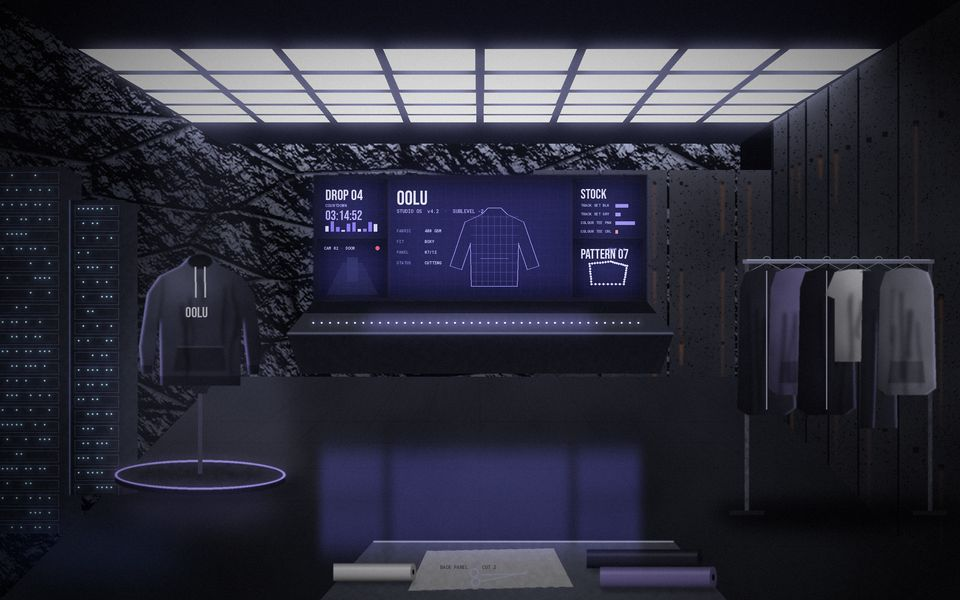
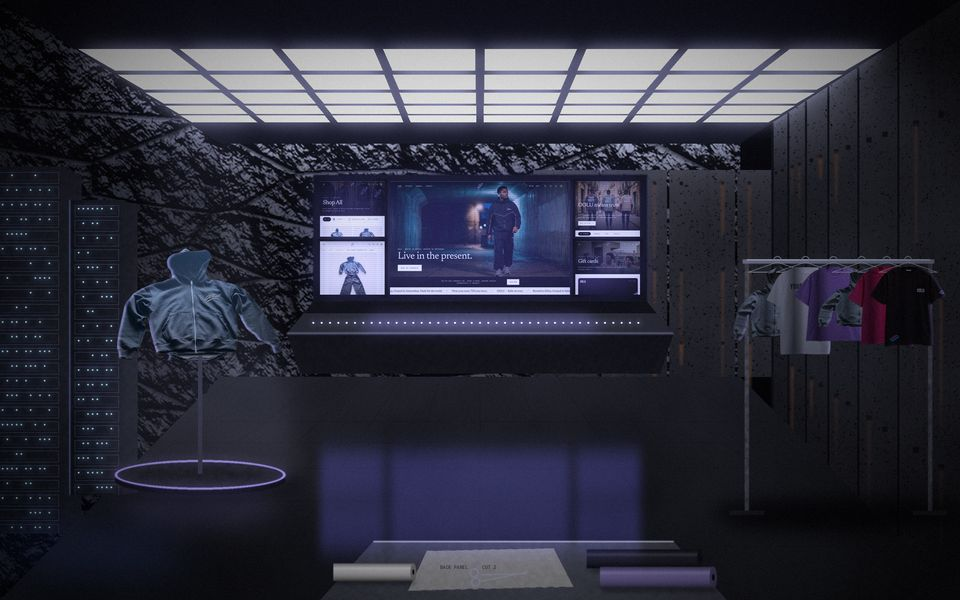
Studio backdrop: real site pages on the monitors, real products on the rail
The monitor wall now shows screenshots of the storefront (home, shop,
product, journal, gift cards). The stand carries the black tracksuit-set
hoodie and the rail the real tees and hoodies, cut out of the product
photos and relit for the room. Scripts updated in scripts/studio-paint.

Claude-Session: https://claude.ai/code/session_01XY47Pwf2M7Ryrew1jkBbJ7

diff --git a/scripts/studio-paint/pages.js b/scripts/studio-paint/pages.js
@@ -1,0 +1,13 @@
+const { chromium } = require('playwright');
+const out=__dirname+'/cut/';
+(async () => {
+  const b = await chromium.launch({args:['--no-proxy-server']});
+  const shots=[["home","/",1440,907],["shop","/shop",640,550],["product","/products/oolu-hoodie-tracksuit-set-black",640,525],["journal","/journal",640,550],["gift","/gift-cards",640,525]];
+  for (const [n,u,w,h] of shots){
+    const c=await b.newContext({viewport:{width:w,height:h},deviceScaleFactor:1});
+    const p=await c.newPage();
+    await p.goto('http://localhost:3000'+u,{waitUntil:'networkidle'}); await p.addStyleTag({content:"nextjs-portal{display:none!important}"}); await p.waitForTimeout(2500);
+    await p.screenshot({path:out+'page-'+n+'.png'}); await c.close();
+  }
+  await b.close();
+})();

diff --git a/scripts/studio-paint/stage2.py b/scripts/studio-paint/stage2.py
@@ -62,6 +62,24 @@ def fabric(poly,base,seed,light=-1,rim=LAV,rimk=0.5,folds=6,fold_len=(0.25,0.7),
 
 fl0=mask([(0,900),(BX0,BY1),(BX1,BY1),(1440,900)])
 mul(fl0,0.55)
+
+def garment(name,cx,top,width,light=1,rimk=0.45,k=0.62,seed=0):
+    """Place a real product cut-out, relit for the room: dimmed, shaded from one side, rim light."""
+    g=Image.open(f"cut/{name}.png"); r=width*S/g.width
+    g=g.resize((int(g.width*r),int(g.height*r)),Image.LANCZOS)
+    a=np.asarray(g,np.float32)/255; h,w=a.shape[:2]
+    x0,y0=int((cx-width/2)*S),int(top*S)
+    m=np.zeros((H,W),np.float32); rgb=np.zeros((H,W,3),np.float32)
+    ys,xs=slice(max(0,y0),min(H,y0+h)),slice(max(0,x0),min(W,x0+w))
+    sa=a[ys.start-y0:ys.stop-y0, xs.start-x0:xs.stop-x0]
+    m[ys,xs]=sa[:,:,3]; rgb[ys,xs]=sa[:,:,:3]
+    u=np.clip((XX-(cx-width/2))/width,0,1); v=np.clip((YY-top)/(h/S),0,1)
+    lit=k*(0.7+0.5*(u if light>0 else 1-u))*(1.05-0.3*v)
+    rgb=rgb**1.15*lit[:,:,None]*np.array([0.9,0.92,1.0],np.float32)
+    paint(m,rgb)
+    add(nd.gaussian_filter(edge(m,-light,3),1.5*S)*m,(0.72,0.66,1.0),rimk)
+    return m
+
 # ════════ contact shadows first (under everything)
 mul(ell(300,722,150,26,10),0.35)
 mul(ell(1255,768,190,22,12),0.4)
@@ -96,9 +114,17 @@ add(ell(110,830,170,40,30),(0.25,0.4,0.9),0.2)
 screens=[]
 def screen(x0,y0,x1,y1,kind,skew=0.0):
     w,h=int((x1-x0)*S),int((y1-y0)*S)
-    s=Image.new("RGB",(w,h),(4,5,12)); d=ImageDraw.Draw(s)
-    for gx in range(0,w,int(14*S)): d.line([(gx,0),(gx,h)],fill=(10,12,26))
-    for gy in range(0,h,int(14*S)): d.line([(0,gy),(w,gy)],fill=(10,12,26))
+    if kind.startswith("page:"):
+        pg=Image.open("cut/page-"+kind[5:]+".png").convert("RGB")
+        r=max(w/pg.width,h/pg.height); pg=pg.resize((int(pg.width*r+1),int(pg.height*r+1)),Image.LANCZOS)
+        s=pg.crop((0,0,w,h))
+    else:
+        s=Image.new("RGB",(w,h),(4,5,12))
+    d=ImageDraw.Draw(s)
+    page=kind.startswith("page:")
+    if not page:
+        for gx in range(0,w,int(14*S)): d.line([(gx,0),(gx,h)],fill=(10,12,26))
+        for gy in range(0,h,int(14*S)): d.line([(0,gy),(w,gy)],fill=(10,12,26))
     hdr=(186,170,255)
     if kind=="os":
         d.text((10*S,8*S),"OOLU",font=bebas(30),fill=(244,239,227))
@@ -142,6 +168,7 @@ def screen(x0,y0,x1,y1,kind,skew=0.0):
             for t in np.linspace(0,1,9): p=lerp(a,b,t); d.ellipse([p[0]-1.5*S,p[1]-1.5*S,p[0]+1.5*S,p[1]+1.5*S],fill=(230,226,255))
         d.text((w*0.5,8*S),"SEAM 1.0",font=mono(5.5),fill=hdr)
     a=np.asarray(s,np.float32)/255
+    if page: a=(a**1.1)*np.array([0.86,0.87,0.95],np.float32)   # monitor gamma, slightly cool
     # scanlines
     a*= (0.9+0.1*(np.arange(h)%int(3*S)<S))[:,None,None]
     m=np.zeros((H,W),np.float32); y0p,x0p=int(y0*S),int(x0*S)
@@ -153,9 +180,9 @@ def screen(x0,y0,x1,y1,kind,skew=0.0):
     screens.append({"x":x0,"y":y0,"w":x1-x0,"h":y1-y0,"kind":kind})
 # mounting frame behind screens
 paint(mask([(470,262),(970,262),(970,452),(470,452)],1),(0.035,0.035,0.045))
-screen(585,272,855,442,"os")
-screen(480,272,577,355,"drop"); screen(480,362,577,442,"cam")
-screen(863,272,960,355,"stock"); screen(863,362,960,442,"pattern")
+screen(585,272,855,442,"page:home")
+screen(480,272,577,355,"page:shop"); screen(480,362,577,442,"page:product")
+screen(863,272,960,355,"page:journal"); screen(863,362,960,442,"page:gift")
 # console desk
 desk_top=[(455,470),(985,470),(1010,500),(430,500)]
 paint(mask([(470,452),(970,452),(985,470),(455,470)]),(0.05,0.05,0.06))
@@ -181,22 +208,10 @@ add(np.clip(ell(cx,base,128,22,0.6)-ell(cx,base,124,19,0.6),0,1),LAV,0.9)       
 add(nd.gaussian_filter(np.clip(ell(cx,base,128,22)-ell(cx,base,124,19),0,1),8*S),LAV,0.7)
 paint(mask([(cx-3,575),(cx+3,575),(cx+3,base-2),(cx-3,base-2)]),(0.25,0.25,0.3))
 paint(mask([(cx-14,574),(cx+14,574),(cx+10,590),(cx-10,590)],0.5),(0.12,0.12,0.14))
-# hoodie
-hood=[(cx-30,398),(cx-16,384),(cx,380),(cx+16,384),(cx+30,398),
-      (cx+62,414),(cx+80,440),(cx+92,520),(cx+88,560),(cx+72,562),(cx+66,512),(cx+62,470),
-      (cx+60,578),(cx-60,578),(cx-62,470),(cx-66,512),(cx-72,562),(cx-88,560),(cx-92,520),(cx-80,440),(cx-62,414)]
-m=fabric(hood,(0.2,0.2,0.24),seed=9,folds=9,fold_len=(0.2,0.55),rimk=0.7,gloss=0.08)
-# hood opening, cuffs, hem, pocket, drawcords, chest print
-paint(ell(cx,392,18,11,1),(0.025,0.025,0.03))
-for x0 in (cx-88,cx+72):
-    mul(mask([(x0,548),(x0+16,548),(x0+16,560),(x0,560)],0.6),0.6)
-mul(mask([(cx-60,564),(cx+60,564),(cx+60,578),(cx-60,578)],0.8),0.65)
-mul(mask([(cx-34,520),(cx+34,520),(cx+40,556),(cx-40,556)],1.2),0.7)
-add(nd.gaussian_filter(mask([(cx-34,519),(cx+34,519),(cx+34,521),(cx-34,521)]),0.6*S),(1,1,1),0.08)
-for dx in (-7,7):
-    paint(mask([(cx+dx-1,400),(cx+dx+1,400),(cx+dx+1.5,446),(cx+dx-0.5,446)],0.4),(0.75,0.74,0.72))
-im,d=layer(); d.text(((cx-22)*S,456*S),"OOLU",font=bebas(22),fill=255)
-t=arr(im,0.15); paint(t*0.9*m,(0.86,0.84,0.8))
+# hoodie: the real OOLU hoodie from the black tracksuit set
+m=garment("hoodie-black",cx,372,250,light=-1,rimk=0.75,k=0.95)
+hb=np.where(m.max(1)>0.5)[0].max()/S
+paint(mask([(cx-3,hb-6),(cx+3,hb-6),(cx+3,base-2),(cx-3,base-2)]),(0.25,0.25,0.3))
 # spotlight hit on shoulders
 add(ell(cx-20,420,60,30,22)*m,(0.9,0.9,1),0.12)
 
@@ -207,27 +222,17 @@ for x in (rx0,rx1):
     paint(mask([(x-26,766),(x+26,766),(x+26,772),(x-26,772)],0.5),(0.12,0.12,0.14))
 paint(mask([(rx0-6,ry-3),(rx1+6,ry-3),(rx1+6,ry+3),(rx0-6,ry+3)],0.5),(0.42,0.43,0.48))
 add(nd.gaussian_filter(mask([(rx0,ry-3),(rx1,ry-3),(rx1,ry-2),(rx0,ry-2)]),0.5*S),(1,1,1),0.4)
-items=[("jacket",1150,(0.13,0.13,0.15)),("hoodie",1196,(0.42,0.38,0.52)),("jacket",1240,(0.09,0.09,0.1)),
-       ("tee",1282,(0.82,0.8,0.75)),("trousers",1318,(0.16,0.16,0.18)),("hoodie",1360,(0.55,0.54,0.56))]
-for i,(kind,x,c) in enumerate(items):
-    # hanger
+items=[("zip-grey",1166,132),("tee-white",1208,118),("tee-purple",1250,118),("hoodie-grey",1292,130),
+       ("tee-pink",1330,118),("tee-black",1362,114)]
+prev=None
+for i,(name,x,wd) in enumerate(items):
     hk,hd=layer(); hd.arc([(x-6)*S,(ry-8)*S,(x+6)*S,(ry+4)*S],180,360,fill=200,width=int(1.5*S))
-    hd.line(P((x,ry+1),(x-28,ry+16),(x+28,ry+16),(x,ry+1)),fill=200,width=int(1.5*S))
+    hd.line(P((x,ry+1),(x-44,ry+16),(x+44,ry+16),(x,ry+1)),fill=200,width=int(1.5*S))
     paint(arr(hk),(0.55,0.56,0.6))
-    if kind=="trousers":
-        poly=[(x-24,ry+14),(x+24,ry+14),(x+28,ry+250),(x+6,ry+250),(x,ry+70),(x-6,ry+250),(x-28,ry+250)]
-    elif kind=="tee":
-        poly=[(x-30,ry+16),(x-10,ry+12),(x+10,ry+12),(x+30,ry+16),(x+44,ry+50),(x+30,ry+56),(x+30,ry+150),(x-30,ry+150),(x-30,ry+56),(x-44,ry+50)]
-    else:
-        L=230 if kind=="jacket" else 200
-        poly=[(x-32,ry+16),(x-12,ry+10),(x+12,ry+10),(x+32,ry+16),(x+40,ry+40),(x+44,ry+L-10),(x+30,ry+L),(x-30,ry+L),(x-44,ry+L-10),(x-40,ry+40)]
-    m=fabric(poly,c,seed=20+i,light=1,rim=(0.75,0.7,1.0),rimk=0.35,folds=6 if kind!="tee" else 4,fold_len=(0.35,0.85))
-    if kind=="jacket":
-        paint(mask([(x-0.8,ry+14),(x+0.8,ry+14),(x+0.8,ry+222),(x-0.8,ry+222)]),(0.38,0.38,0.42))  # zip
-        add(mask([(x-0.6,ry+14),(x+0.6,ry+14),(x+0.6,ry+222),(x-0.6,ry+222)]),(1,1,1),0.2)
-    if kind=="hoodie":
-        mul(mask([(x-24,ry+150),(x+24,ry+150),(x+28,ry+182),(x-28,ry+182)],1),0.72)
-    mul(np.clip(nd.shift(m,(0,-8*S),order=0)-m,0,1)*0.0+edge(m,-1,10)*0.0,1)
+    if prev is not None:   # each piece shades the one hanging behind it
+        mul(np.clip(nd.shift(prev,(0,0),order=0),0,1)*np.clip(1-np.abs(XX-(x-wd/2))/16,0,1),0.45)
+    m=garment(name,x,ry+8,wd,light=1,rimk=0.35,k=0.6)
+    prev=m
 # shadow of the rack on the wall/floor
 mul(ell(1260,780,180,16,14),0.5)
 

diff --git a/scripts/studio-paint/cut_rembg.py b/scripts/studio-paint/cut_rembg.py
@@ -1,0 +1,21 @@
+"""Cut product photos out of their backgrounds (rembg) -> cut/<name>.png"""
+import numpy as np, os
+from rembg import remove, new_session
+from PIL import Image
+from scipy import ndimage as nd
+SRC=os.environ.get("SRC","/home/claude/oolu/public/images/products/")
+items={"zip-grey":("oolu-zip-hoodie-grey-1.jpg",None),"hoodie-black":("oolu-hoodie-tracksuit-set-black-1.jpg",0.37),
+ "hoodie-grey":("oolu-hoodie-tracksuit-set-grey-1.jpg",0.36),"tee-white":("oolu-version-2-t-shirt-1.jpg",None),
+ "tee-purple":("oolu-washed-t-shirt-purple-green-gray-1.jpg",None),"tee-pink":("oolu-t-shirt-hot-pink-1.jpg",None),
+ "tank-black":("oolu-sleeveless-tee-1.jpg",None),"tee-black":("oolu-gambia-edition-t-shirt-1.jpg",None),
+ "tee-coral":("oolu-t-shirt-coral-red-1.jpg",None),"tee-sky":("oolu-cropped-t-shirt-sky-blue-1.jpg",None)}
+os.makedirs("cut",exist_ok=True); s=new_session('isnet-general-use')
+for k,(f,crop) in items.items():
+    im=Image.open(SRC+f).convert("RGB").resize((700,875),Image.LANCZOS)
+    o=np.asarray(remove(im,session=s)).copy(); a=o[:,:,3].astype(np.float32)
+    if crop: a[int(875*crop):]=0
+    m=a>128; lab,n=nd.label(m); sizes=nd.sum(m,lab,range(1,n+1)); keep=lab==(np.argmax(sizes)+1)
+    a*=nd.binary_dilation(keep,iterations=3); a=np.minimum(a,nd.grey_erosion(a,size=3))
+    o[:,:,3]=a.astype(np.uint8); ys,xs=np.where(a>10)
+    Image.fromarray(o[ys.min():ys.max()+1,xs.min():xs.max()+1],"RGBA").save(f"cut/{k}.png")
+print("cut ok")

diff --git a/scripts/studio-paint/README.md b/scripts/studio-paint/README.md
@@ -5,6 +5,8 @@
 ```
 pip install numpy scipy pillow
 # fonts: Bebas Neue -> bebas.ttf, Roboto Mono -> mono.ttf (same folder)
+node pages.js        # screenshots of the live site (dev server on :3000) -> cut/page-*.png
+pip install rembg[cpu]; python3 cut_rembg.py   # product photos cut out -> cut/*.png
 python3 paint.py     # room: rock, concrete, light grid, floor -> stage1.npy
 python3 stage2.py    # racks, screens, clothes, bench, haze, grade -> studio.jpg, studio-sm.jpg, scene.json
 P=. python3 gen_tsx.py   # run from the repo root with P=<this folder>: writes src/app/admin/login/StudioScene.tsx
